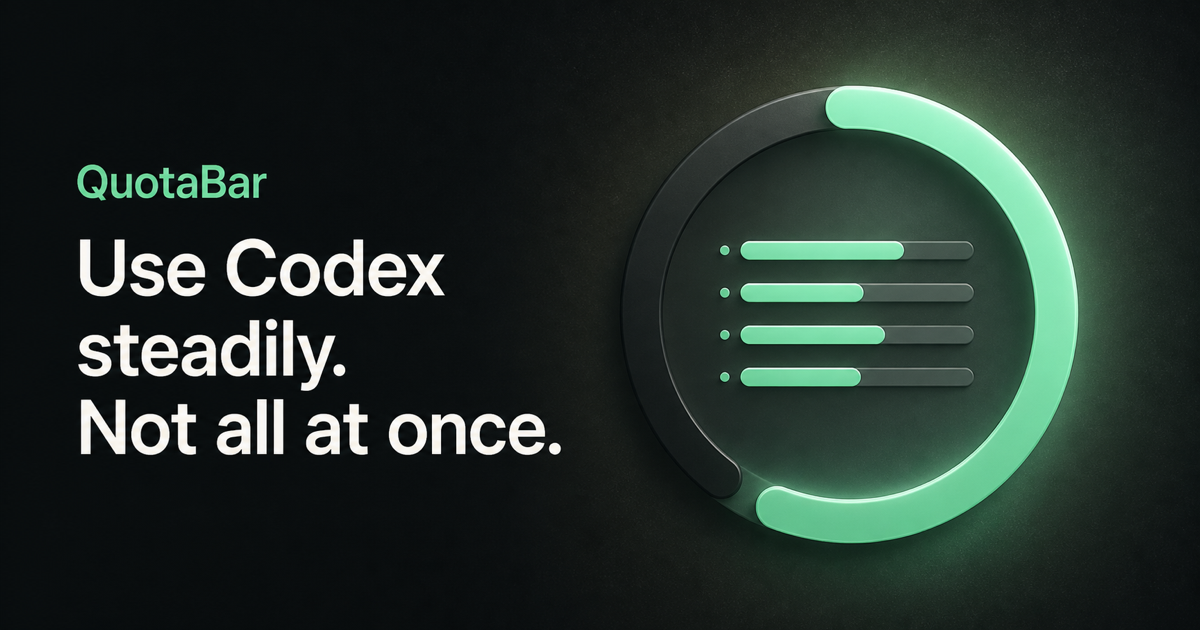
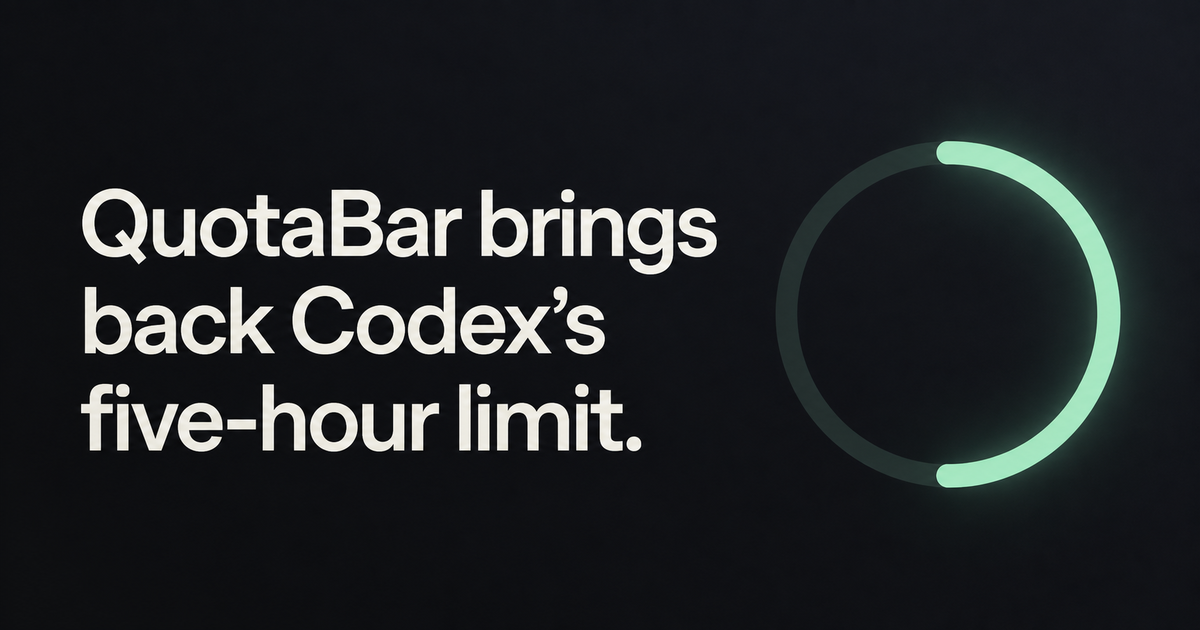
Simplify QuotaBar landing page

diff --git a/site/app/page.tsx b/site/app/page.tsx
@@ -15,14 +15,18 @@ export default function Home() {
 
       <section className="hero shell" id="top">
         <div className="hero-copy">
-          <div className="eyebrow"><i /> Built for Codex on Mac</div>
-          <h1>Use Codex steadily.<br /><span>Not all at once.</span></h1>
-          <p className="lede">QuotaBar is a private menu-bar guardrail that helps you spread your Codex allowance across the week.</p>
+          <h1>QuotaBar brings back Codex’s five-hour limit.</h1>
+          <p className="lede">
+            One long Codex session shouldn’t burn through your weekly allowance.
+            QuotaBar automatically tracks your usage and pauses new prompts in
+            the Codex Mac app when your five-hour budget runs out.
+          </p>
           <div className="hero-actions">
-            <a className="button primary" href="https://github.com/ErnestBogore/QuotaBar/releases">Download for Mac</a>
-            <a className="button secondary" href="#how-it-works">See how it works</a>
+            <a className="button primary" href="https://github.com/ErnestBogore/QuotaBar/releases/latest">
+              Download for Mac
+            </a>
           </div>
-          <p className="compatibility">macOS 14+ · Apple Silicon preview · MIT licensed</p>
+          <p className="compatibility">macOS 14+ · Apple silicon · Free and open source</p>
         </div>
 
         <div className="product-stage" aria-label="QuotaBar app preview">
@@ -46,77 +50,6 @@ export default function Home() {
           </div>
         </div>
       </section>
-
-      <section className="trust shell" aria-label="QuotaBar highlights">
-        <div><span>01</span><strong>Your real account meter</strong><p>Reads the usage percentages already returned for your Codex account.</p></div>
-        <div><span>02</span><strong>Private by design</strong><p>Your prompts and account credentials never leave your Mac.</p></div>
-        <div><span>03</span><strong>Only this Mac pauses</strong><p>Your CLI, IDE, browser and other devices keep working.</p></div>
-      </section>
-
-      <section className="section shell" id="how-it-works">
-        <div className="section-intro">
-          <p className="kicker">How it works</p>
-          <h2>A gentle limit for one very long week.</h2>
-          <p>QuotaBar recreates the old five-hour rhythm from the weekly meter OpenAI currently provides.</p>
-        </div>
-        <div className="steps">
-          <article><span>1</span><h3>Watch the whole account</h3><p>Usage from Codex desktop, CLI, IDE, web, cloud and other devices all moves the same weekly meter.</p></article>
-          <article><span>2</span><h3>Set aside a five-hour share</h3><p>QuotaBar turns part of that weekly allowance into a smaller five-hour budget that is easier to pace.</p></article>
-          <article><span>3</span><h3>Pause the next Mac prompt</h3><p>At zero, the current task can finish. Only your next prompt in the Codex app on this Mac waits for reset.</p></article>
-        </div>
-      </section>
-
-      <section className="split-section shell">
-        <div className="split-copy">
-          <p className="kicker">Built for self-control</p>
-          <h2>A guardrail, not a lock.</h2>
-          <p>QuotaBar is intentionally easy to understand and easy to remove. You can use one emergency 15-minute pass in each five-hour window, and Force Quit remains available.</p>
-          <ul>
-            <li><i />Current Codex task is never interrupted</li>
-            <li><i />Unknown apps are always allowed</li>
-            <li><i />No Accessibility permission or screen reading</li>
-          </ul>
-        </div>
-        <div className="privacy-card">
-          <div className="shield" aria-hidden="true">✓</div>
-          <p className="kicker">Stays on your Mac</p>
-          <h3>Quota data in.<br />Nothing personal out.</h3>
-          <p>QuotaBar keeps its history locally. It does not upload credentials, prompts, responses, repository paths or analytics.</p>
-          <a href="https://github.com/ErnestBogore/QuotaBar">Inspect the source <span aria-hidden="true">↗</span></a>
-        </div>
-      </section>
-
-      <section className="section install shell" id="download">
-        <div className="section-intro compact">
-          <p className="kicker">Install the preview</p>
-          <h2>Up and running in a minute.</h2>
-        </div>
-        <ol className="install-list">
-          <li><span>1</span><div><strong>Download QuotaBar</strong><p>Get the newest Mac ZIP from GitHub Releases.</p></div></li>
-          <li><span>2</span><div><strong>Move it to Applications</strong><p>Unzip it, then drag QuotaBar into your Applications folder.</p></div></li>
-          <li><span>3</span><div><strong>Open it once</strong><p>For this unsigned preview, Control-click the app and choose Open. Future updates arrive inside QuotaBar.</p></div></li>
-        </ol>
-        <a className="button primary large" href="https://github.com/ErnestBogore/QuotaBar/releases">Download the Mac preview</a>
-      </section>
-
-      <section className="section faq shell">
-        <div className="section-intro compact">
-          <p className="kicker">Good to know</p>
-          <h2>Simple answers.</h2>
-        </div>
-        <div className="faq-grid">
-          <article><h3>Does it know whether I have Plus or Pro?</h3><p>You do not choose a plan. QuotaBar reads the percentage returned for the account already signed into Codex, so the meter naturally follows that account&apos;s allowance.</p></article>
-          <article><h3>Why is the five-hour meter an estimate?</h3><p>When OpenAI returns a five-hour meter, QuotaBar uses it directly. Otherwise it reconstructs one from the official weekly movement and labels the result clearly.</p></article>
-          <article><h3>Can it read my conversations?</h3><p>No. It extracts only timing, model and token counters from local Codex activity. Conversation content is never retained.</p></article>
-          <article><h3>Will it block Codex everywhere?</h3><p>No. It pauses only new prompts in the Codex desktop app on this Mac. Everything else is measured but never blocked.</p></article>
-        </div>
-      </section>
-
-      <footer className="footer shell">
-        <a className="brand" href="#top"><Image src="/icon.png" width={28} height={28} alt="" />QuotaBar</a>
-        <p>Open source under the MIT License.</p>
-        <div><a href="https://github.com/ErnestBogore/QuotaBar">GitHub</a><a href="https://github.com/ErnestBogore/QuotaBar/blob/main/PRIVACY.md">Privacy</a></div>
-      </footer>
     </main>
   );
 }

diff --git a/site/app/layout.tsx b/site/app/layout.tsx
@@ -14,16 +14,16 @@ const geistMono = Geist_Mono({
 
 export const metadata: Metadata = {
   metadataBase: new URL("https://quotabar.fyi"),
-  title: "QuotaBar — Make your Codex week last",
+  title: "QuotaBar — Bring back Codex’s five-hour limit",
   description:
-    "A private macOS menu-bar guardrail that helps you spread Codex usage across the week.",
+    "QuotaBar tracks Codex usage and pauses new Mac app prompts when your five-hour budget runs out.",
   icons: {
     icon: "/icon.png",
     shortcut: "/icon.png",
   },
   openGraph: {
-    title: "QuotaBar — Use Codex steadily. Not all at once.",
-    description: "A private macOS menu-bar guardrail that helps you spread Codex usage across the week.",
+    title: "QuotaBar brings back Codex’s five-hour limit.",
+    description: "Track your Codex usage and keep one long session from burning through your weekly allowance.",
     url: "https://quotabar.fyi",
     siteName: "QuotaBar",
     images: [{ url: "/og.png", width: 1200, height: 630, alt: "QuotaBar for macOS" }],
@@ -31,8 +31,8 @@ export const metadata: Metadata = {
   },
   twitter: {
     card: "summary_large_image",
-    title: "QuotaBar — Use Codex steadily. Not all at once.",
-    description: "A private macOS menu-bar guardrail that helps you spread Codex usage across the week.",
+    title: "QuotaBar brings back Codex’s five-hour limit.",
+    description: "Track your Codex usage and keep one long session from burning through your weekly allowance.",
     images: ["/og.png"],
   },
 };

diff --git a/site/app/globals.css b/site/app/globals.css
@@ -11,7 +11,7 @@ a{color:inherit;text-decoration:none}
 .nav-link{padding:9px 12px;color:#b8c0bc;font-size:14px;border-radius:9px}.nav-link:hover{color:#fff;background:rgba(255,255,255,.06)}
 .hero{min-height:calc(100vh - 84px);display:grid;grid-template-columns:1.02fr .98fr;align-items:center;gap:64px;padding:58px 0 110px}
 .eyebrow{display:inline-flex;align-items:center;gap:8px;margin-bottom:22px;color:#aeb7b2;font-size:13px;font-weight:600}.eyebrow i{width:7px;height:7px;border-radius:50%;background:var(--mint);box-shadow:0 0 0 5px rgba(103,221,160,.1)}
-h1{max-width:640px;margin:0;font-size:clamp(52px,6.1vw,82px);line-height:.98;letter-spacing:-.067em;font-weight:740}h1 span{color:#7d8982}
+h1{max-width:680px;margin:0;font-size:clamp(48px,5.4vw,72px);line-height:1.01;letter-spacing:-.06em;font-weight:740}
 .lede{max-width:570px;margin:27px 0 0;color:#a9b1ad;font-size:20px;line-height:1.55;letter-spacing:-.015em}
 .hero-actions{display:flex;gap:11px;margin-top:34px}.button{display:inline-flex;align-items:center;justify-content:center;min-height:49px;padding:0 19px;border-radius:12px;font-size:14px;font-weight:700}.button.primary{color:#092014;background:var(--mint);box-shadow:0 9px 30px rgba(78,205,139,.18)}.button.primary:hover{background:#7ae8ae}.button.secondary{color:#d8ddda;border:1px solid var(--line);background:rgba(255,255,255,.035)}.button.secondary:hover{background:rgba(255,255,255,.07)}
 .compatibility{margin-top:15px;color:#69736e;font-size:12px}
